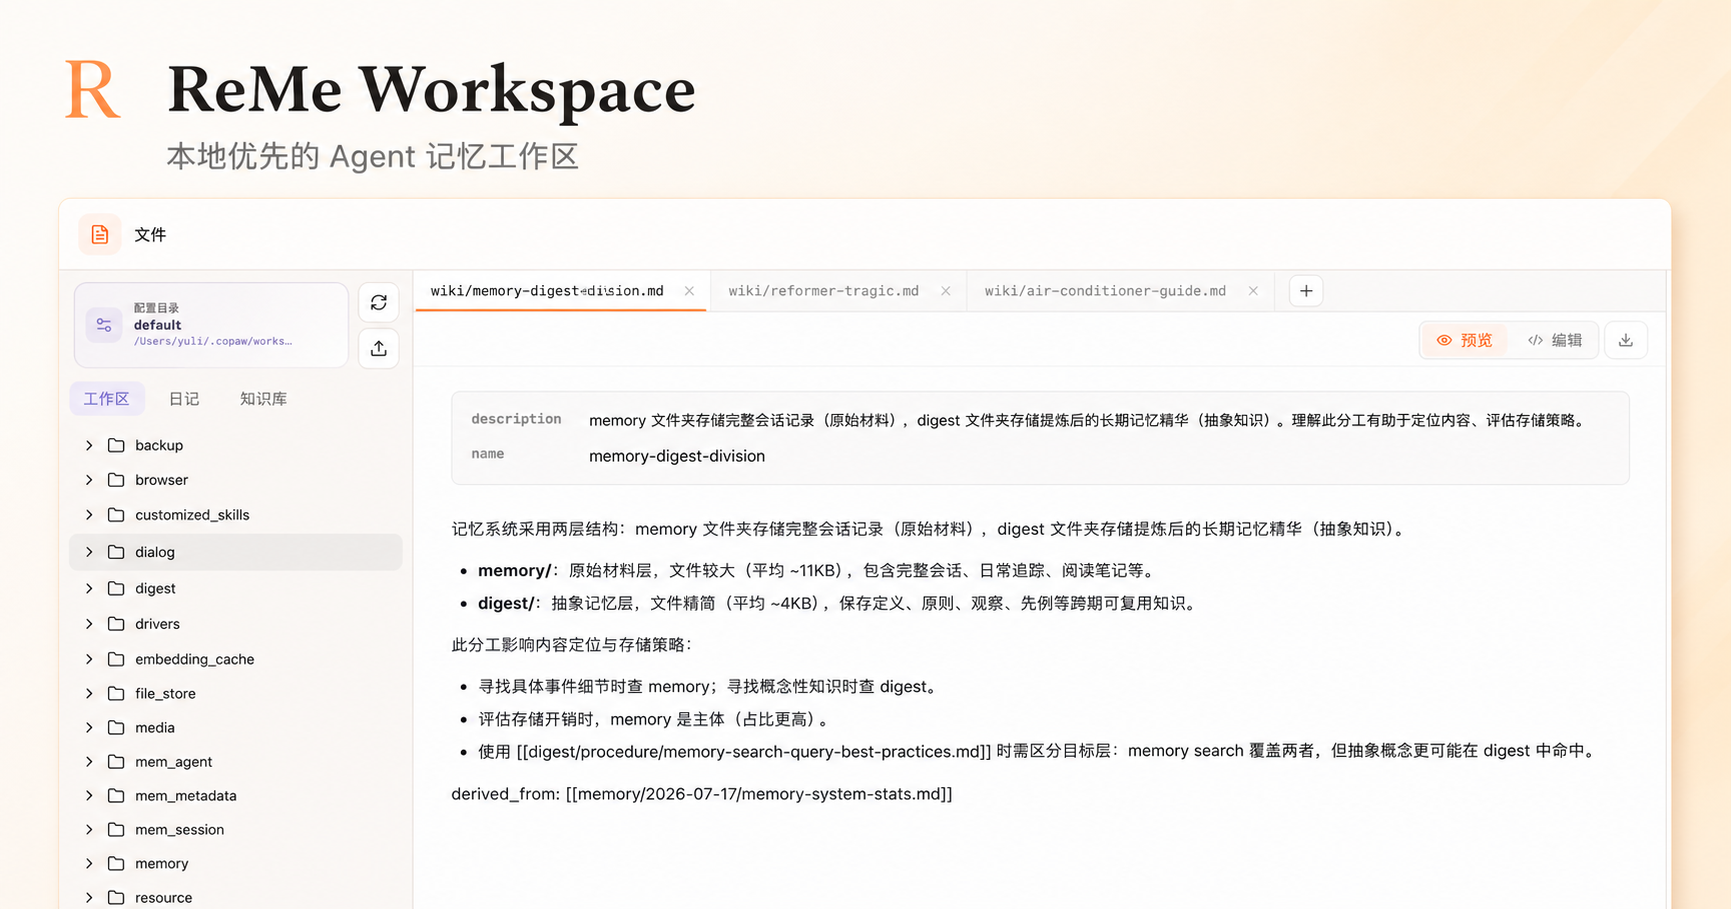
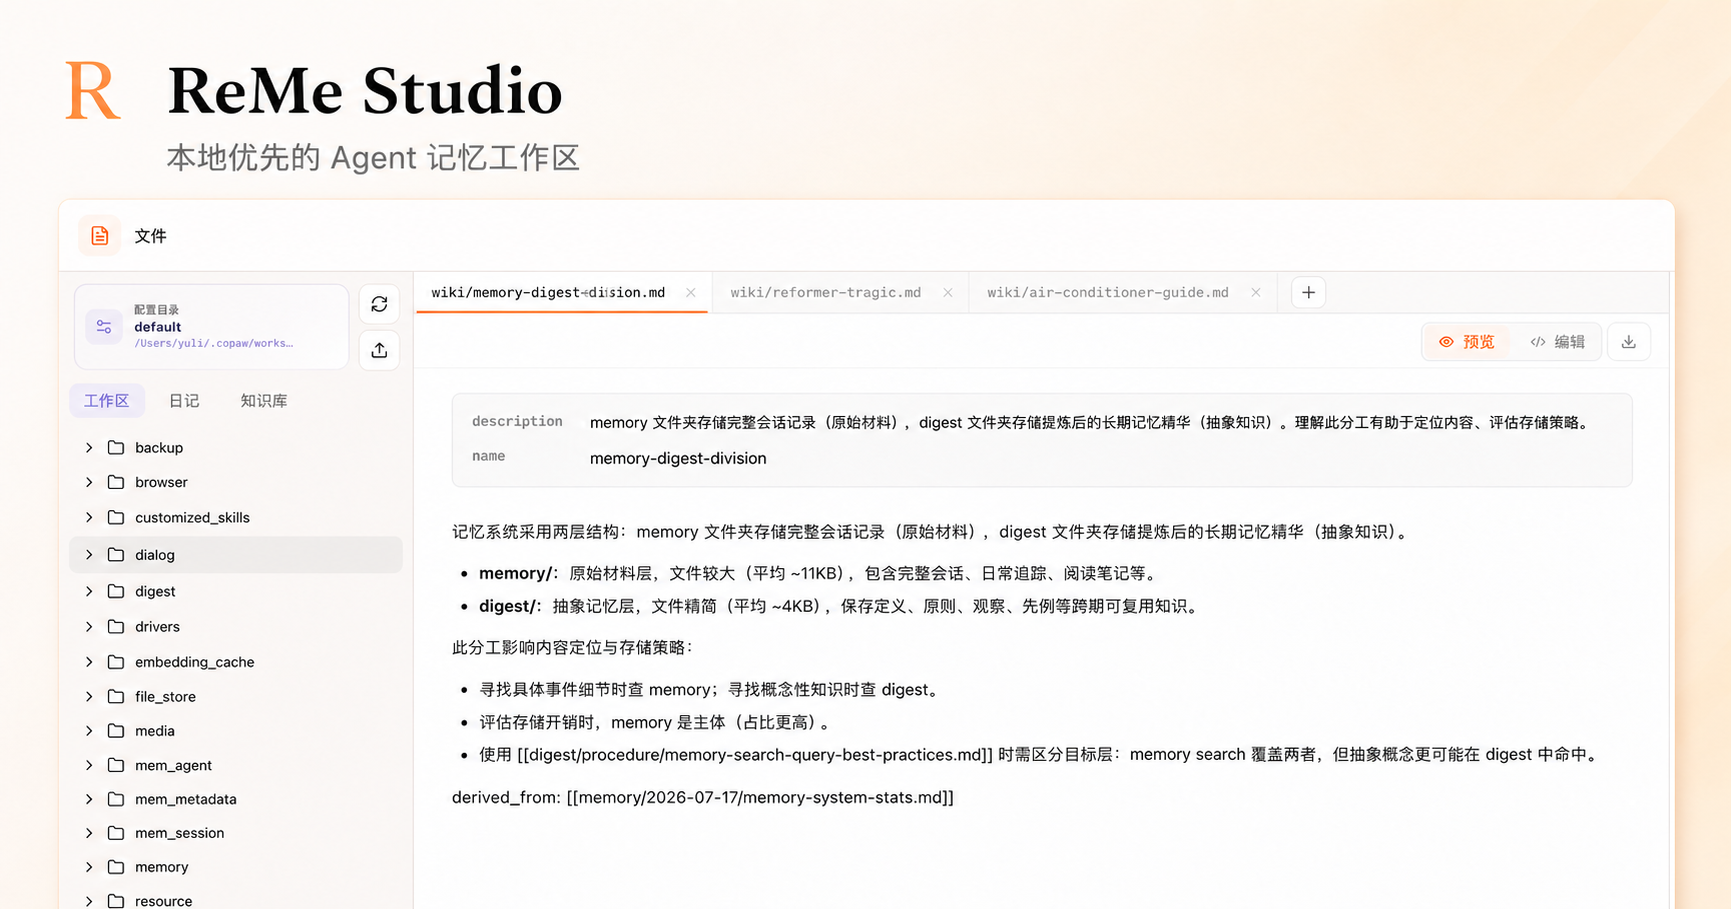
feat(web): rename frontend to ReMe Studio

diff --git a/website/app/layout.tsx b/website/app/layout.tsx
@@ -22,25 +22,25 @@ export async function generateMetadata(): Promise<Metadata> {
 
   return {
     metadataBase,
-    title: "ReMe Workspace",
+    title: "ReMe Studio",
     description:
       "Browse, edit, and discuss your local-first ReMe memory workspace.",
     icons: { icon: "/favicon.svg", shortcut: "/favicon.svg" },
     openGraph: {
-      title: "ReMe Workspace",
+      title: "ReMe Studio",
       description: "本地优先的 Agent 记忆工作区",
       images: [
         {
           url: "/og.png",
           width: 1731,
           height: 909,
-          alt: "ReMe Workspace file explorer",
+          alt: "ReMe Studio memory workspace",
         },
       ],
     },
     twitter: {
       card: "summary_large_image",
-      title: "ReMe Workspace",
+      title: "ReMe Studio",
       description: "本地优先的 Agent 记忆工作区",
       images: ["/og.png"],
     },

diff --git a/website/app/workspace.tsx b/website/app/workspace.tsx
@@ -644,7 +644,7 @@ function Workspace() {
           </span>
         </button>
         <strong>
-          ReMe
+          ReMe Studio
           {version && (
             <>
               <span className="app-version-divider" aria-hidden="true" />
@@ -723,7 +723,7 @@ function Workspace() {
             {!active && (
               <div className="welcome">
                 <div className="agent-logo">R</div>
-                <h1>ReMe Workspace</h1>
+                <h1>ReMe Studio</h1>
                 <p>{t("welcomeDescription")}</p>
                 <button onClick={openAgent}>
                   <Sparkles size={16} />

diff --git a/website/app/store.ts b/website/app/store.ts
@@ -53,6 +53,8 @@ interface WorkspaceState {
 }
 
 const fileTitle = (path: string) => path.split("/").pop() || path;
+// Preserve the original key so existing tabs, chats, and unsaved drafts survive the Studio rename.
+const WORKSPACE_STORAGE_KEY = "reme-workspace";
 
 export const useWorkspaceStore = create<WorkspaceState>()(
   persist(
@@ -240,7 +242,7 @@ export const useWorkspaceStore = create<WorkspaceState>()(
         })),
     }),
     {
-      name: "reme-workspace",
+      name: WORKSPACE_STORAGE_KEY,
       version: 1,
       storage: createJSONStorage(() => localStorage),
       skipHydration: true,

diff --git a/website/README.md b/website/README.md
@@ -1,7 +1,7 @@
-# ReMe Workspace
+# ReMe Studio
 
-Local web workspace for browsing ReMe files, editing and previewing Markdown,
-and streaming conversations with the ReMe Agent.
+Local web studio for browsing ReMe files, editing and previewing Markdown,
+exploring memory graphs, and streaming conversations with the ReMe Agent.
 
 ## Development
 
